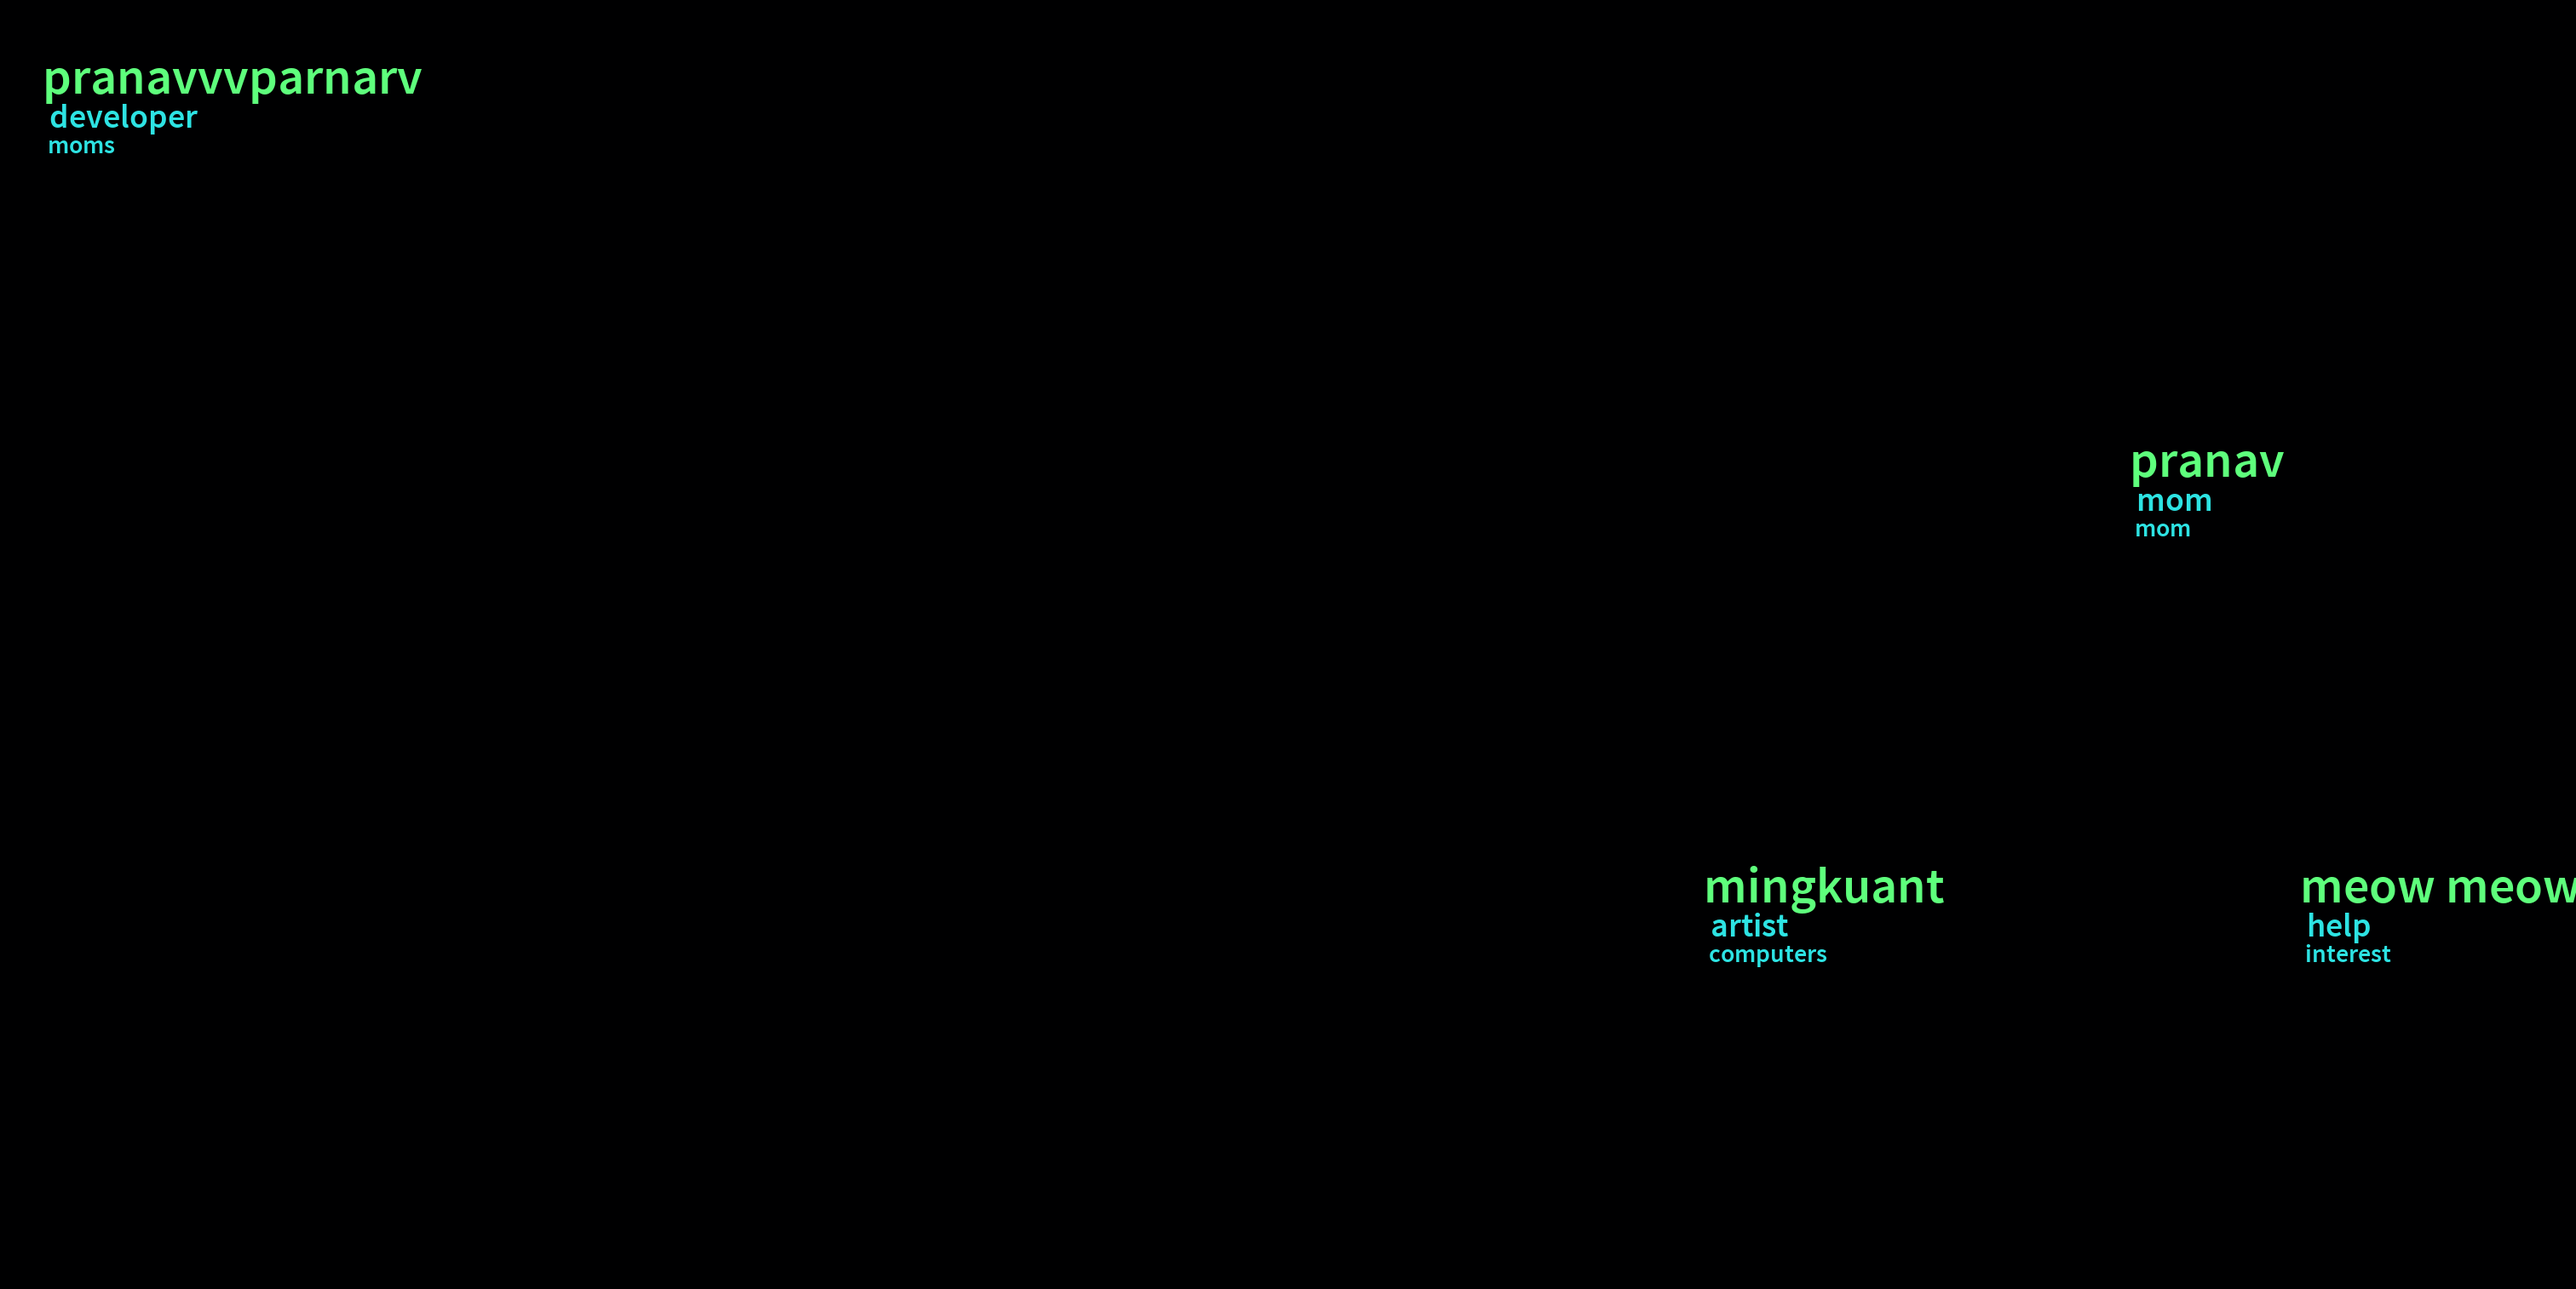
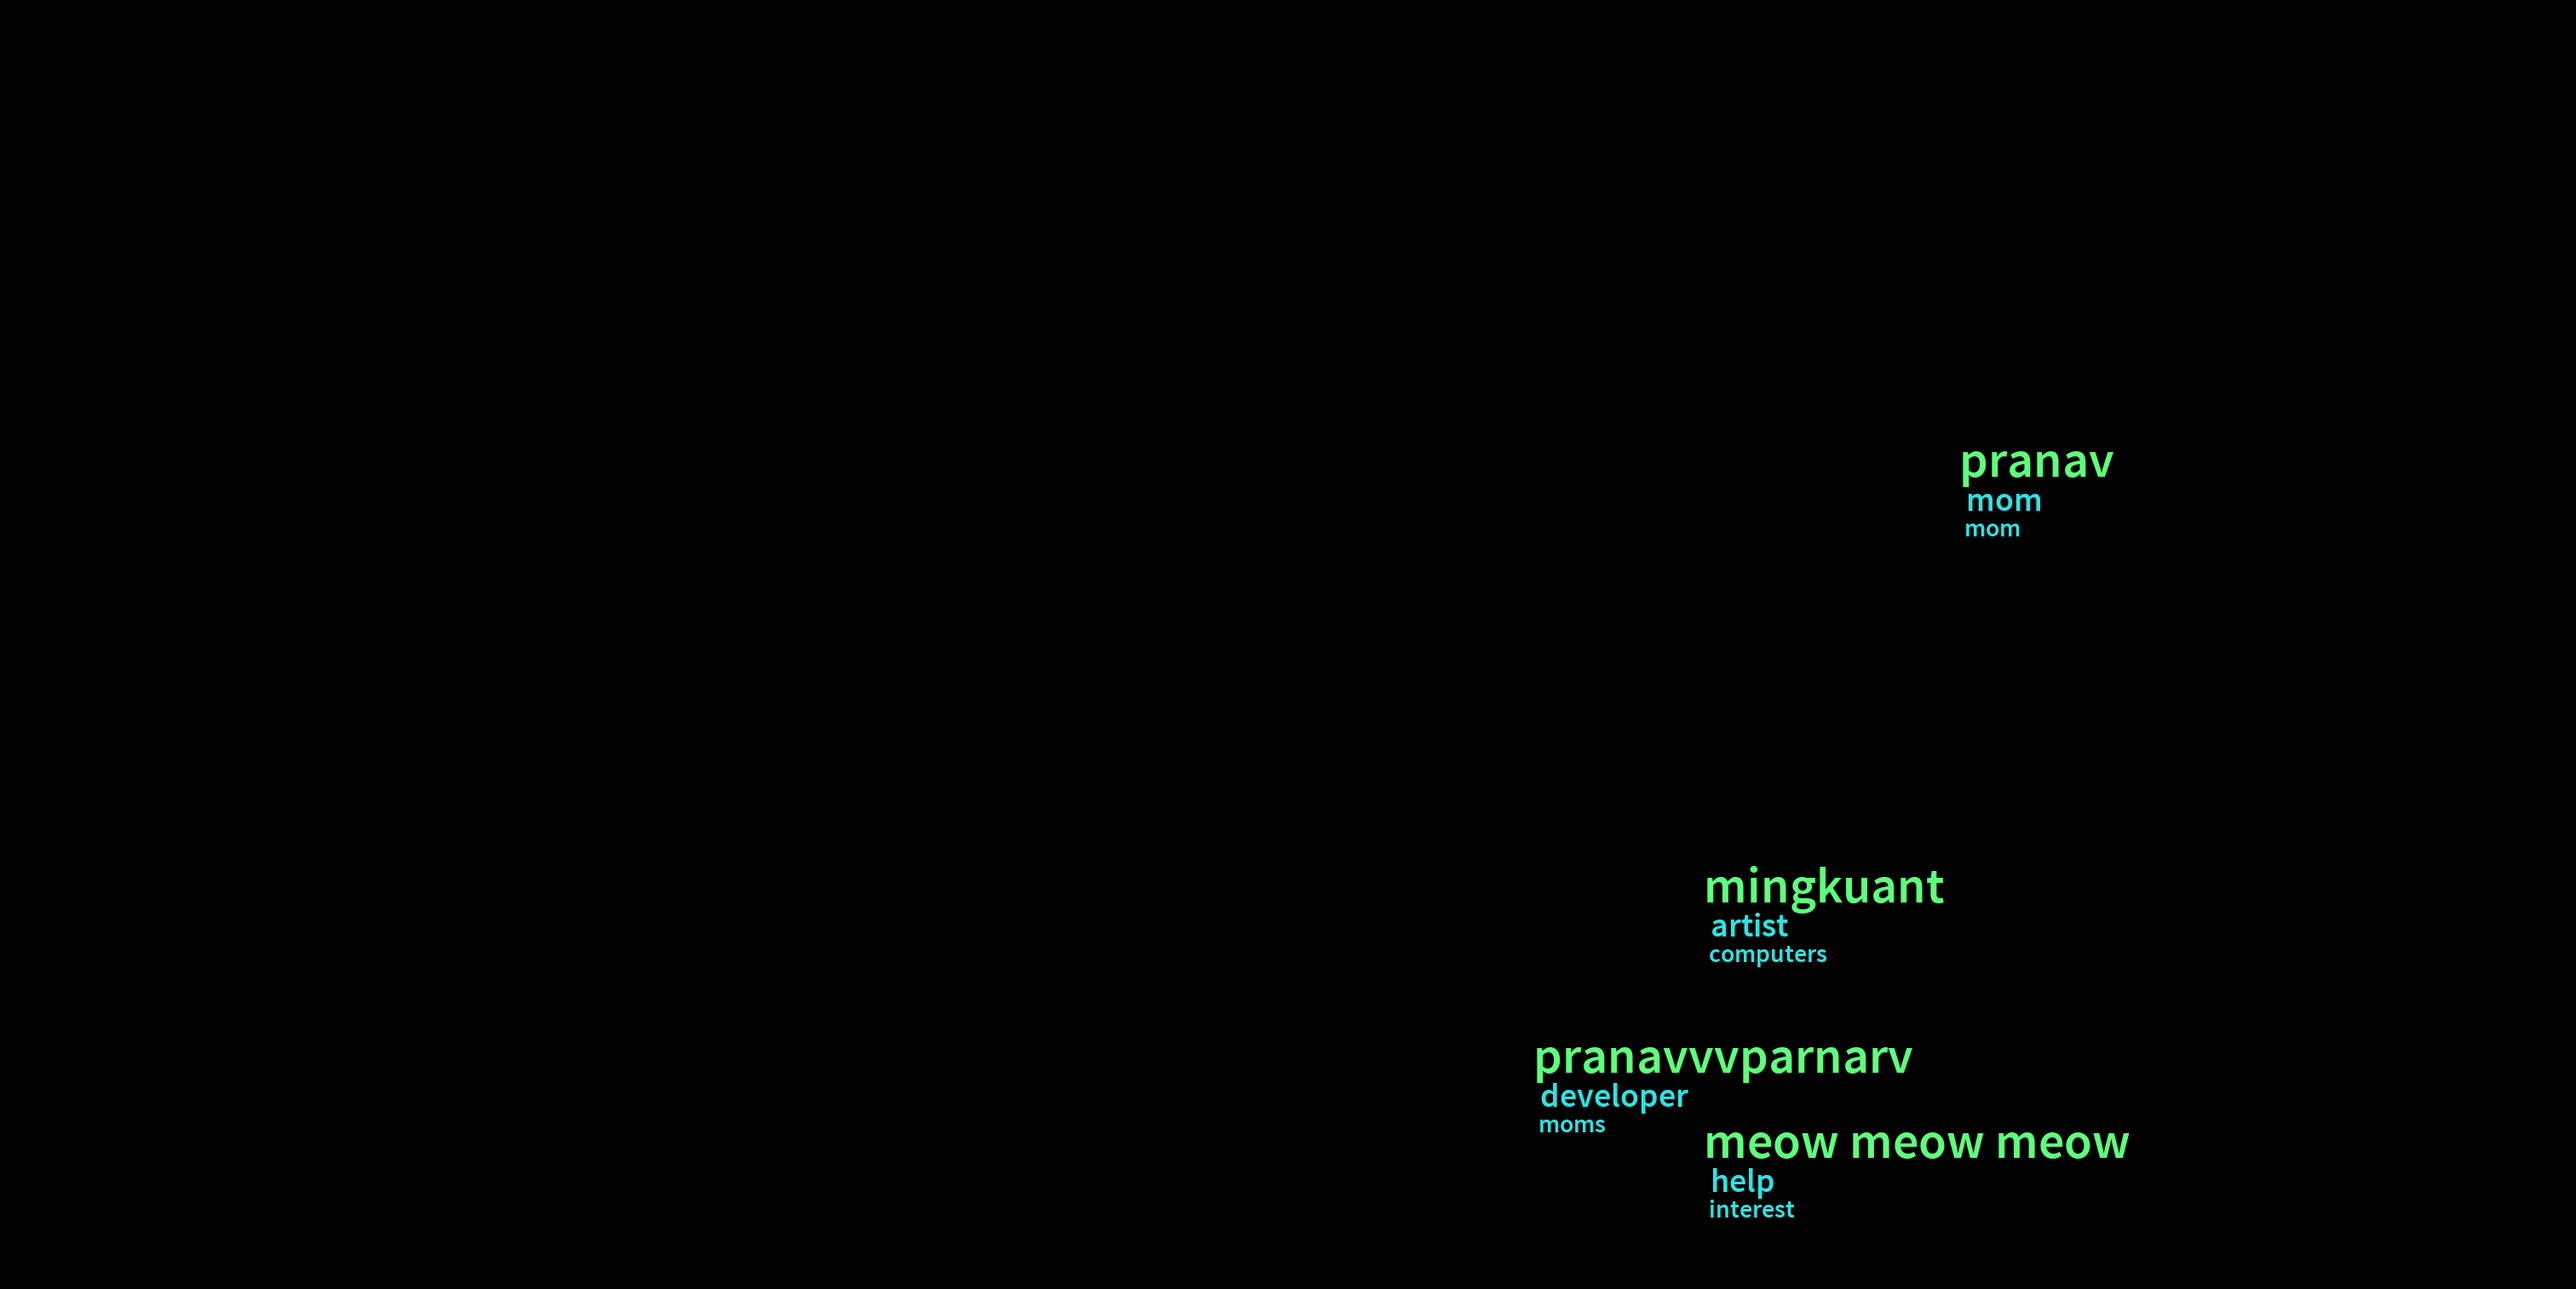
mirror graphics

diff --git a/graphics/script.py b/graphics/script.py
@@ -1,67 +1,55 @@
 from PIL import Image, ImageDraw, ImageFont
-import pyautogui
 import cv2
+import numpy as np
 
-X_CONS = 3024 #TODO figure out what's happening with this...
+
+X_CONS = 3024
 Y_CONS = 1514
 
+
 def render_text_on_image(lines, font_path, output_path):
-    #screen_width, screen_height = pyautogui.size()
-    print("hello")
-
-
-    image = Image.new("RGBA", (X_CONS, Y_CONS), (0, 0, 1, 255))  # Dark blue background
+    image = Image.new("RGBA", (X_CONS, Y_CONS), (2, 2, 2, 255))  # Dark blue background
     draw = ImageDraw.Draw(image)
 
-    # Load the fonts
     font_name = ImageFont.truetype(font_path, 60)
     font_occupation = ImageFont.truetype(font_path, 40)
     font_interests = ImageFont.truetype(font_path, 30)
 
-    # Render each line of text onto the image
     for line in lines:
         content = line.strip().split(',')
         if len(content) == 5:
             name, occupation, interests, x, y = content
             x, y = int(x), int(y)
 
-            # Render name with the biggest label
             draw.text((x, y), name, font=font_name, fill=(94, 255, 124), align="right")
-
-            # Render occupation in italics
             draw.text((x, y + 60), occupation, font=font_occupation, fill=(45, 227, 227), align="right")
-
-            # Render interests smaller
             draw.text((x, y + 100), interests, font=font_interests, fill=(45, 227, 227), align="right")
         else:
             print("Error: Invalid input format in the text file.")
-
-    # Save the image to the same PNG file (overwrite the previous frame)
-    image.save(output_path)
+    
+   
+    image.save(output_path) #replace result with image to revert
 
 if __name__ == "__main__":
-    # Specify the path to the font file, input text file, and output PNG file
     font_path = "SourceSansPro-Semibold.ttf"
     input_text_path = "data.txt"
     output_path = "output.png"
 
-    # Create an OpenCV window
     cv2.namedWindow('Video Stream', cv2.WINDOW_NORMAL)
-    #cv2.resizeWindow('Video Stream', X_CONS, Y_CONS)
-    cv2.setWindowProperty('Video Stream', cv2.WND_PROP_FULLSCREEN, cv2.WINDOW_FULLSCREEN)
-
+    cv2.setWindowProperty('Video Stream', cv2.WND_PROP_FULLSCREEN, cv2.WND_PROP_FULLSCREEN)
 
     while True:
-        # Read all lines from the input file
         with open(input_text_path, "r") as input_file:
             lines = input_file.readlines()
 
-        # Render the frame and update the OpenCV window
         render_text_on_image(lines, font_path, output_path)
         frame = cv2.imread(output_path)
-        cv2.imshow('Video Stream', frame)
 
-        # Wait for 0.5 seconds before querying the file again
+        # Apply horizontal flipping to mirror the output
+        mirrored_frame = cv2.flip(frame, 1)
+
+        cv2.imshow('Video Stream', mirrored_frame)
+
         key = cv2.waitKey(500)
         if key == 27:  # Press 'Esc' to exit
             break
